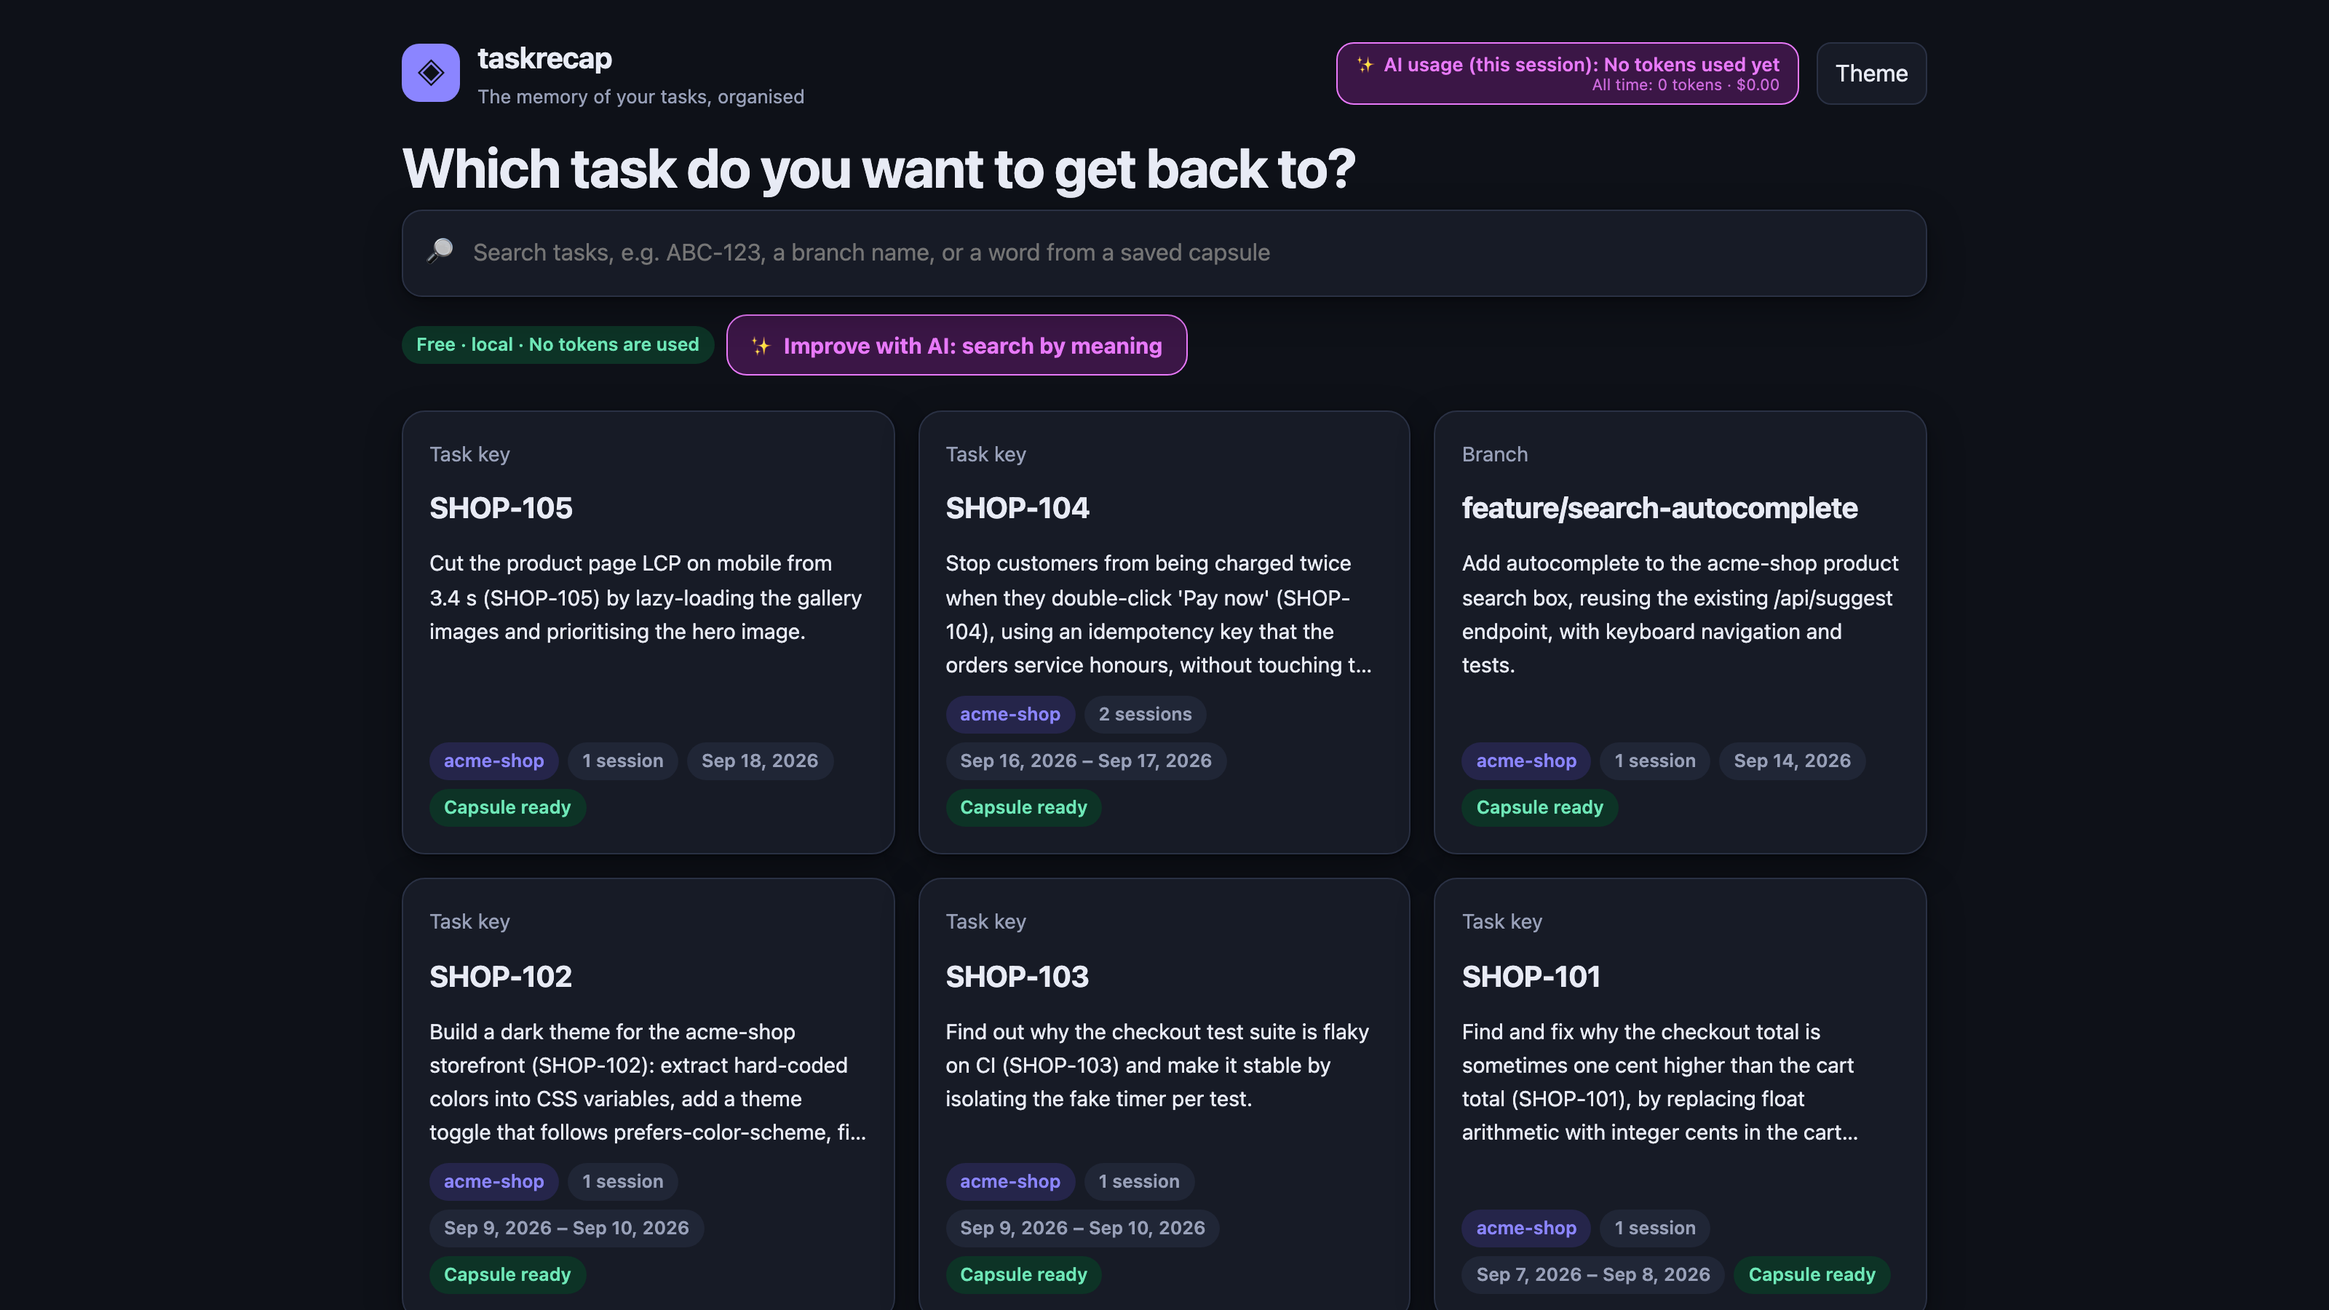
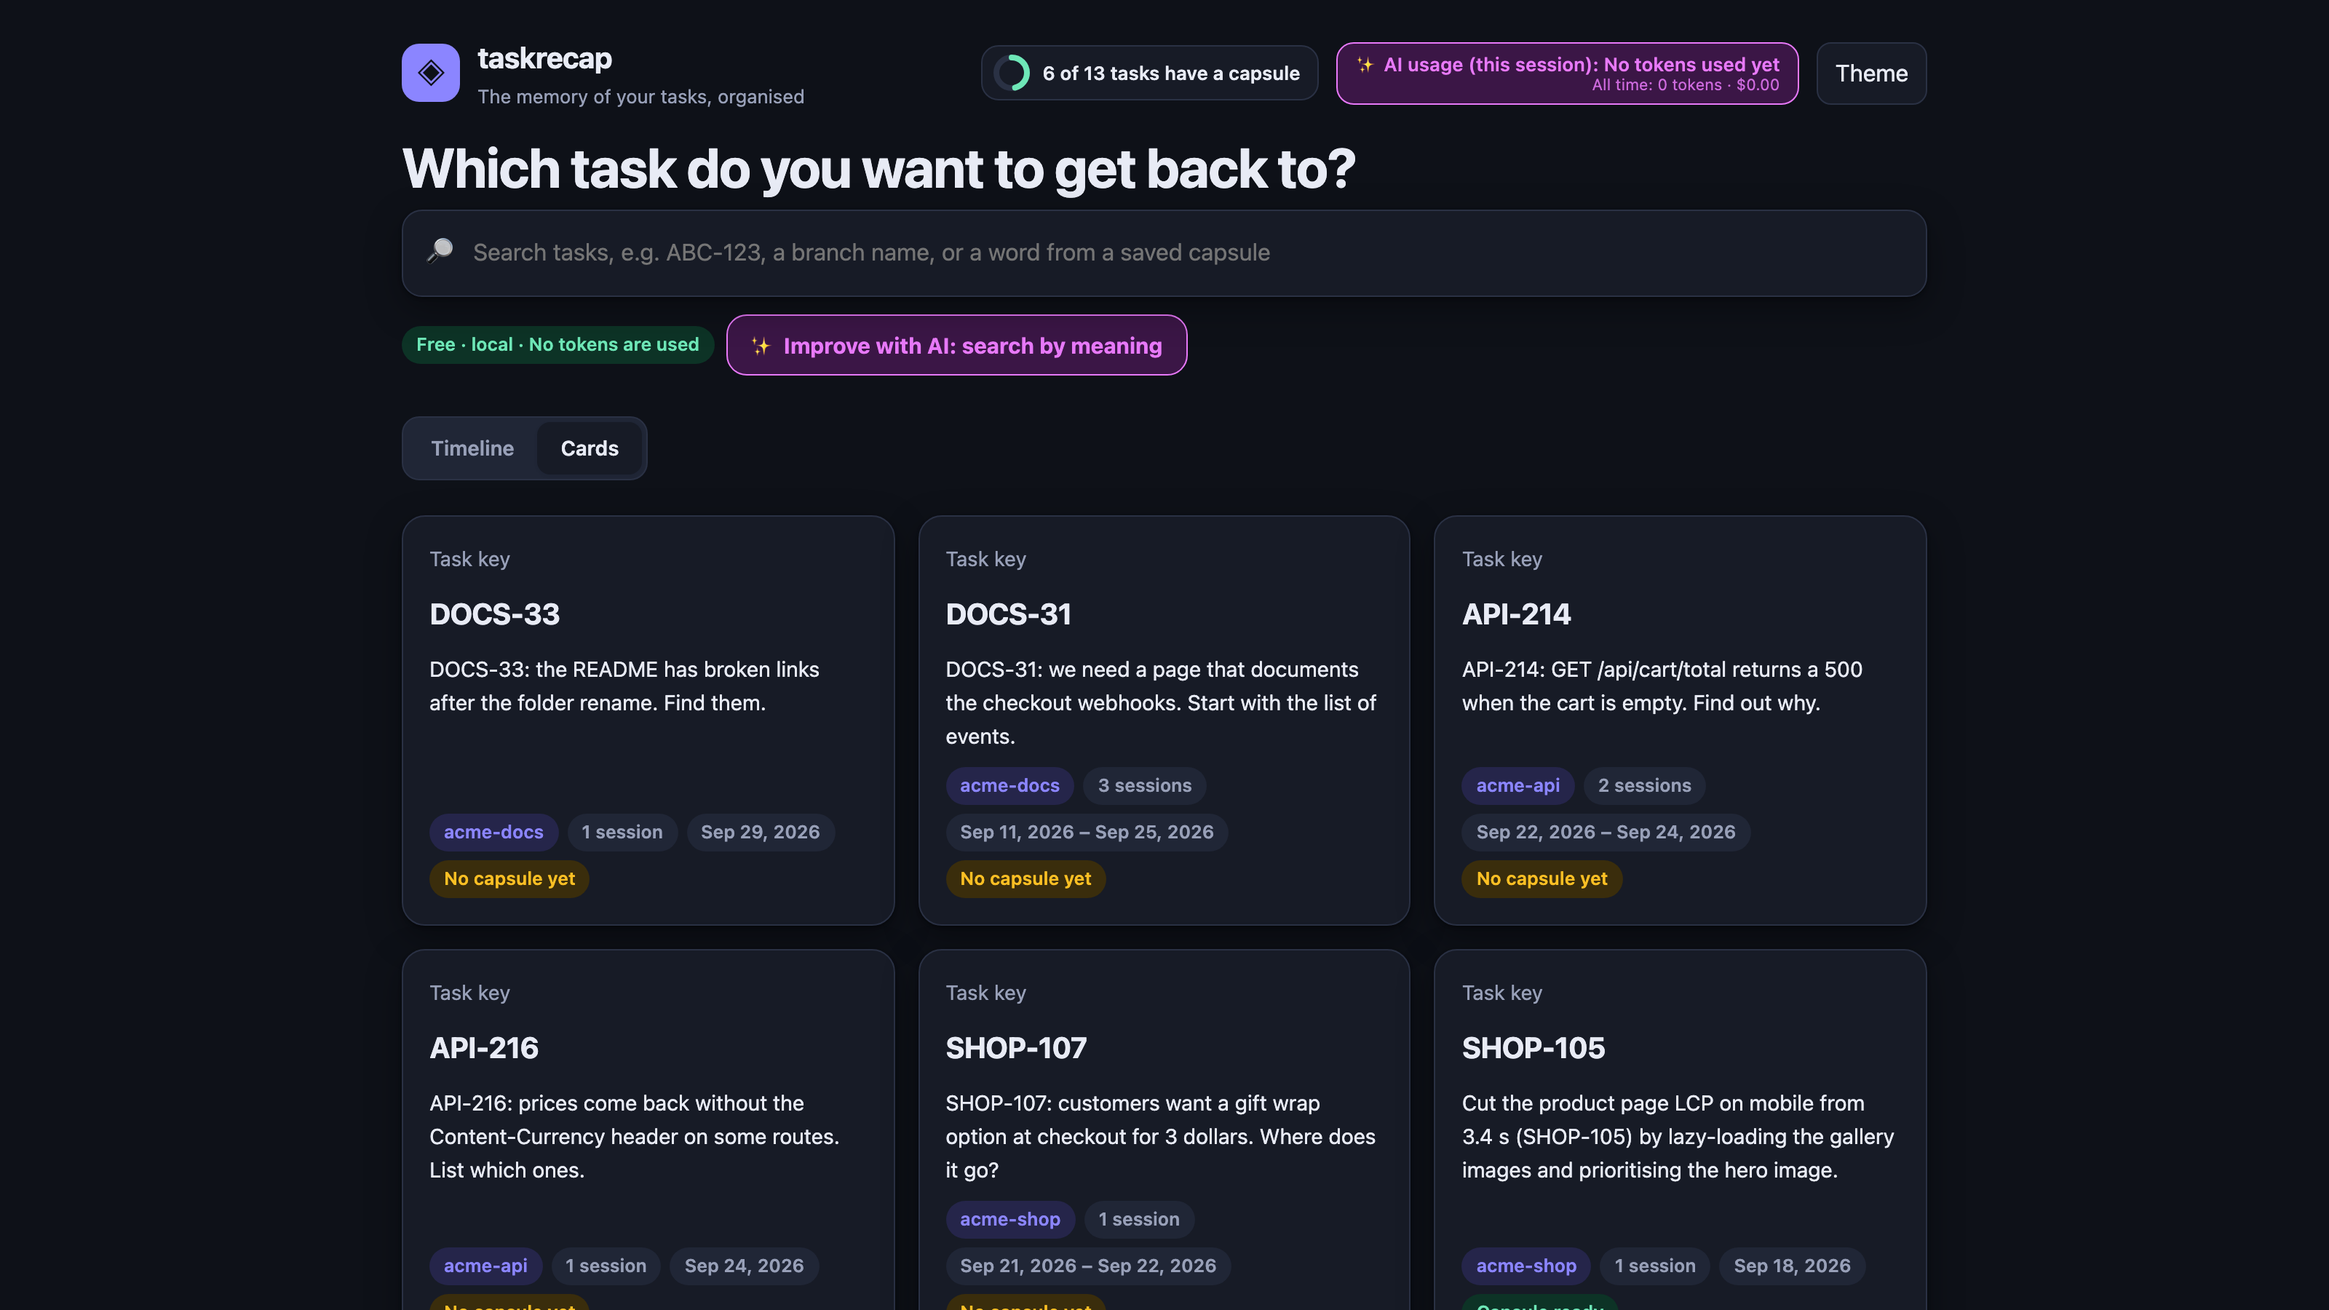
Update versioning and enhance timeline filters; add new tests and improve UI elements

diff --git a/web/index.html b/web/index.html
@@ -250,6 +250,14 @@ button.tasklink.inline { width: auto; padding: 2px 10px; border-radius: 999px; f
 .vzfilters { display: flex; flex-wrap: wrap; gap: 8px 12px; align-items: center; }
 .vzfilters label { display: inline-flex; align-items: center; gap: 6px; font-size: 13px; color: var(--muted); font-weight: 600; }
 .vzfilters select, .vzfilters input { font: inherit; font-size: 14px; color: var(--text); background: var(--surface); border: 1.5px solid var(--border); border-radius: 10px; padding: 6px 10px; max-width: 180px; }
+.vzcustom { display: inline-flex; flex-wrap: wrap; gap: 8px 12px; align-items: center; }
+.vzcustom[hidden] { display: none; }
+.vzmsg { font-size: 13px; color: var(--muted); }
+.vzmsg:empty { display: none; }
+.vzfilters input[type="date"] { color-scheme: light; }
+:root[data-theme="dark"] .vzfilters input[type="date"] { color-scheme: dark; }
+@media (prefers-color-scheme: dark) { :root:not([data-theme="light"]) .vzfilters input[type="date"] { color-scheme: dark; } }
+.vz-empty .cta { margin-left: 10px; }
 .vzfilters select:focus, .vzfilters input:focus { outline: none; border-color: var(--accent); box-shadow: 0 0 0 3px var(--accent-soft); }
 .capfilter { display: inline-flex; align-items: center; gap: 8px; font-size: 13px; font-weight: 600; background: var(--accent-soft); color: var(--accent); border-radius: 999px; padding: 4px 6px 4px 12px; }
 .capfilter button { border: none; background: var(--surface); color: var(--accent); border-radius: 999px; font-weight: 700; font-size: 12.5px; padding: 3px 10px; }
@@ -329,9 +337,13 @@ button.tasklink.inline { width: auto; padding: 2px 10px; border-radius: 999px; f
       </div>
       <div class="vzfilters" id="vzfilters">
         <label><span id="vz-repo-label"></span><select id="vz-repo"></select></label>
-        <label><span id="vz-from-label"></span><input type="date" id="vz-from"></label>
-        <label><span id="vz-to-label"></span><input type="date" id="vz-to"></label>
+        <label><span id="vz-period-label"></span><select id="vz-period"></select></label>
+        <span class="vzcustom" id="vz-custom" hidden>
+          <label><span id="vz-from-label"></span><input type="date" id="vz-from"></label>
+          <label><span id="vz-to-label"></span><input type="date" id="vz-to"></label>
+        </span>
         <button class="cta ghost sm" type="button" id="vz-reset"></button>
+        <span class="vzmsg" id="vz-msg" role="status"></span>
       </div>
       <span class="capfilter" id="capfilter" hidden><span id="capfilter-text"></span><button type="button" id="capfilter-clear"></button></span>
     </div>
@@ -396,6 +408,9 @@ function applyStatic() {
   $("view-timeline").textContent = S.view_timeline;
   $("view-cards").textContent = S.view_cards;
   $("vz-repo-label").textContent = S.tl_repo;
+  $("vz-period-label").textContent = S.tl_period;
+  $("vz-period").innerHTML = [["all", S.tl_period_all], ["7", S.tl_period_7], ["30", S.tl_period_30], ["90", S.tl_period_90], ["custom", S.tl_period_custom]]
+    .map(([v, l]) => `<option value="${v}">${esc(l)}</option>`).join("");
   $("vz-from-label").textContent = S.tl_from;
   $("vz-to-label").textContent = S.tl_to;
   $("vz-reset").textContent = S.tl_reset;
@@ -466,7 +481,7 @@ function bindCards(root) {
 // ---------- home: cards or timeline ----------
 let VIEW = "timeline"; // remembered between visits
 try { if (localStorage.getItem("tr-view") === "cards") VIEW = "cards"; } catch (e) { /* storage blocked: default view */ }
-const VZ = { repo: "", from: "", to: "", limit: 12, noCapsule: false }; // timeline filters; the capsule filter also narrows the cards
+const VZ = { repo: "", period: "all", from: "", to: "", limit: 12, noCapsule: false }; // timeline filters; the capsule filter also narrows the cards
 let TL = null;
 let tlSeq = 0;
 
@@ -504,17 +519,25 @@ function renderHome() {
   $("view-cards").setAttribute("aria-pressed", String(!timeline));
   $("vzfilters").hidden = !timeline;
   $("capfilter").hidden = !VZ.noCapsule;
-  $("timeline").hidden = !timeline;
+  $("timeline").hidden = !timeline || !!(HITS && !list.length);
   renderCoverage();
-  if (timeline) loadTimeline();
+  if (timeline && !(HITS && !list.length)) loadTimeline();
 }
 
 // ---------- timeline ----------
+const localDay = (offsetDays) => { const d = new Date(); d.setDate(d.getDate() - offsetDays); return d.getFullYear() + "-" + String(d.getMonth() + 1).padStart(2, "0") + "-" + String(d.getDate()).padStart(2, "0"); };
+/** The days the timeline is filtered to: a preset counts back from today, "custom" uses the two date boxes. */
+function vzRange() {
+  if (VZ.period === "custom") return { from: VZ.from, to: VZ.to };
+  const n = Number(VZ.period);
+  return n > 0 ? { from: localDay(n - 1), to: "" } : { from: "", to: "" };
+}
 function tlQuery() {
   const q = new URLSearchParams();
   if (VZ.repo) q.set("repo", VZ.repo);
-  if (VZ.from) q.set("from", VZ.from);
-  if (VZ.to) q.set("to", VZ.to);
+  const range = vzRange();
+  if (range.from) q.set("from", range.from);
+  if (range.to) q.set("to", range.to);
   if (VZ.noCapsule) q.set("capsule", "none");
   if (HITS) q.set("keys", [...HITS.keys()].join("\n")); else q.set("limit", String(VZ.limit));
   return q.toString();
@@ -560,7 +583,11 @@ function renderTimeline() {
     named.map((r) => `<li><span class="vz-sw s${r.slot}" aria-hidden="true"></span>${esc(r.name)}</li>`).join("") +
     (others.length ? `<li title="${esc(others.map((r) => r.name).join(", "))}"><span class="vz-sw" aria-hidden="true"></span>${esc(S.tl_legend_other)} (${others.length})</li>` : "") + "</ul>";
   const head = `<div class="vz-head"><h2 id="vz-title">${esc(S.tl_title)}</h2><p>${esc(S.tl_hint)}</p>${tl.repos.length ? legend : ""}</div>`;
-  if (!tl.lanes.length) { el.innerHTML = head + `<p class="vz-empty" role="status">${esc(S.tl_empty)}</p>`; return; }
+  if (!tl.lanes.length) {
+    const filtered = VZ.repo || VZ.period !== "all" || VZ.noCapsule;
+    el.innerHTML = head + `<p class="vz-empty" role="status">${esc(S.tl_empty)}${filtered ? ` <button type="button" class="cta ghost sm" id="vz-empty-reset">${esc(S.tl_empty_reset)}</button>` : ""}</p>`;
+    return;
+  }
   const grid = (ticks) => ticks.map((t) => `<i class="vz-gl" style="left:${t.x}%"></i>`).join("");
   const lane = (l) => {
     const marks = l.marks.map((m, i) => {
@@ -581,7 +608,7 @@ function renderTimeline() {
   const more = tl.hidden > 0 ? `<button type="button" class="cta ghost sm" id="vz-more">${esc(fmt(S.tl_more, { n: Math.min(12, tl.hidden) }))}</button>` : "";
   el.innerHTML = head + `<div class="vz-scroll"><div class="vz-chart">
     <div class="vz-row" aria-hidden="true"><span class="vz-axis-pad"></span><div class="vz-ticks">${ticks}</div></div>${tl.lanes.map(lane).join("")}</div></div>
-    <div class="vz-foot"><span>${esc(fmt(S.tl_showing, { shown: tl.shown, total: tl.total }))}</span>${more}</div>
+    <div class="vz-foot"><span>${esc(fmt(tl.unassigned_shown ? S.tl_showing_unassigned : S.tl_showing, { shown: tl.task_shown, total: tl.task_total }))}${tl.undated ? " · " + esc(fmt(S.tl_undated, { n: tl.undated })) : ""}</span>${more}</div>
     <p class="note" style="margin:10px 18px 0">${esc(S.tl_note)}</p>` + table;
 }
 
@@ -602,6 +629,7 @@ function bindTimeline() {
   const laneOf = (key) => (TL ? TL.lanes.find((l) => l.key === key) : null);
   el.addEventListener("click", (e) => {
     if (e.target.closest("#vz-more")) { VZ.limit += 12; loadTimeline(); return; }
+    if (e.target.closest("#vz-empty-reset")) { resetVz(); return; }
     const t = e.target.closest("[data-key]");
     if (t) { hideTip(); location.hash = "#/task/" + encodeURIComponent(t.dataset.key); }
   });
@@ -631,18 +659,37 @@ function bindTimeline() {
   document.addEventListener("keydown", (e) => { if (e.key === "Escape") hideTip(); });
 }
 
+function resetVz() {
+  Object.assign(VZ, { repo: "", period: "all", from: "", to: "", limit: 12 });
+  $("vz-period").value = "all"; $("vz-custom").hidden = true;
+  $("vz-from").value = ""; $("vz-to").value = ""; $("vz-msg").textContent = "";
+  loadTimeline();
+}
+
 function bindViewControls() {
   $("view-timeline").addEventListener("click", () => setView("timeline"));
   $("view-cards").addEventListener("click", () => setView("cards"));
   const refilter = () => { VZ.limit = 12; loadTimeline(); };
   $("vz-repo").addEventListener("change", () => { VZ.repo = $("vz-repo").value; refilter(); });
-  $("vz-from").addEventListener("change", () => { VZ.from = $("vz-from").value; refilter(); });
-  $("vz-to").addEventListener("change", () => { VZ.to = $("vz-to").value; refilter(); });
-  $("vz-reset").addEventListener("click", () => {
-    Object.assign(VZ, { repo: "", from: "", to: "", limit: 12 });
-    $("vz-from").value = ""; $("vz-to").value = "";
-    loadTimeline();
+  $("vz-period").addEventListener("change", () => {
+    VZ.period = $("vz-period").value;
+    $("vz-custom").hidden = VZ.period !== "custom";
+    $("vz-msg").textContent = "";
+    refilter();
   });
+  const onDates = () => {
+    VZ.from = $("vz-from").value; VZ.to = $("vz-to").value;
+    $("vz-msg").textContent = "";
+    if (VZ.from && VZ.to && VZ.from > VZ.to) { // reversed: swap the boxes so what you see is what is filtered
+      [VZ.from, VZ.to] = [VZ.to, VZ.from];
+      $("vz-from").value = VZ.from; $("vz-to").value = VZ.to;
+      $("vz-msg").textContent = S.tl_range_swapped;
+    }
+    refilter();
+  };
+  $("vz-from").addEventListener("change", onDates);
+  $("vz-to").addEventListener("change", onDates);
+  $("vz-reset").addEventListener("click", resetVz);
   const toggleCapsule = (on) => { VZ.noCapsule = on; renderHome(); };
   $("coverage").addEventListener("click", () => toggleCapsule(!VZ.noCapsule));
   $("capfilter-clear").addEventListener("click", () => toggleCapsule(false));

diff --git a/test/timeline.test.js b/test/timeline.test.js
@@ -244,3 +244,37 @@ test('GET /api/timeline serves the layout; /api/tasks stays light (no activity)'
     srv.server.close();
   }
 });
+
+test('"tasks" counts match the coverage ring: sessions without a task key are reported apart', () => {
+  const tasks = [
+    task('A-1', [cell(9, 1, 1)], { has_capsule: true }),
+    task('A-2', [cell(9, 2, 1)]),
+    task('unassigned', [cell(9, 3, 1)], { kind: 'unassigned', generatable: false }),
+  ];
+  const tl = buildTimeline(tasks);
+  assert.deepEqual(tl.coverage, { ready: 1, total: 2 });
+  assert.deepEqual([tl.task_shown, tl.task_total], [2, tl.coverage.total]); // the footer and the ring talk about the same tasks
+  assert.deepEqual([tl.unassigned_shown, tl.unassigned_total], [1, 1]);
+  assert.deepEqual([tl.shown, tl.total], [3, 3]); // lanes drawn (what "show more" counts) still include the unassigned one
+  const noUnassigned = buildTimeline(tasks.slice(0, 2));
+  assert.deepEqual([noUnassigned.unassigned_shown, noUnassigned.unassigned_total], [0, 0]);
+  const limited = buildTimeline(tasks, { limit: 1 });
+  assert.deepEqual([limited.task_shown, limited.task_total, limited.unassigned_total], [1, 2, 1]);
+});
+
+test('a reversed date range selects the same days as the ordered one and reports the range it applied', () => {
+  const tasks = [task('A-1', [cell(9, 1, 1), cell(9, 20, 1)]), task('A-2', [cell(9, 5, 1)])];
+  const ordered = buildTimeline(tasks, { from: d(9, 3), to: d(9, 10) });
+  const reversed = buildTimeline(tasks, { from: d(9, 10), to: d(9, 3) });
+  assert.deepEqual(reversed.lanes, ordered.lanes);
+  assert.deepEqual(reversed.range, ordered.range);
+  assert.deepEqual(reversed.applied, { from: d(9, 3), to: d(9, 10) });
+  assert.deepEqual(buildTimeline(tasks).applied, { from: null, to: null });
+});
+
+test('tasks without dated activity are counted, not drawn, and never break the totals', () => {
+  const tl = buildTimeline([task('A-1', [cell(9, 1, 1)]), task('A-2', []), task('A-3', undefined)]);
+  assert.equal(tl.undated, 2);
+  assert.deepEqual([tl.shown, tl.total, tl.task_shown, tl.task_total], [1, 1, 1, 1]);
+  assert.equal(tl.coverage.total, 3); // the ring still counts every task that can have a capsule
+});

diff --git a/src/timeline.js b/src/timeline.js
@@ -66,8 +66,9 @@ export function buildTimeline(tasks, opts = {}) {
   const slots = repoSlots(tasks.flatMap((t) => (t.activity || []).map((c) => c.project)));
   const generatable = tasks.filter((t) => t.generatable);
   const coverage = { ready: generatable.filter((t) => t.has_capsule).length, total: generatable.length };
-  const from = isDay(opts.from) ? opts.from : null;
-  const to = isDay(opts.to) ? opts.to : null;
+  let from = isDay(opts.from) ? opts.from : null;
+  let to = isDay(opts.to) ? opts.to : null;
+  if (from && to && from > to) [from, to] = [to, from]; // a reversed range means the same days: never an empty chart for it
   const wanted = Array.isArray(opts.keys) ? new Set(opts.keys) : null;
 
   const matching = [];
@@ -114,5 +115,11 @@ export function buildTimeline(tasks, opts = {}) {
     repos: present.map((name) => ({ name, slot: slots.has(name) ? slots.get(name) : -1 })),
     all_repos: [...slots.keys()],
     lanes, total: matching.length, shown: lanes.length, hidden: matching.length - lanes.length, undated, coverage,
+    // "tasks" are the ones that can have a capsule (what the coverage ring counts); sessions without a task key are a separate group
+    task_total: matching.filter((m) => m.task.generatable !== false).length,
+    task_shown: lanes.filter((l) => l.generatable).length,
+    unassigned_total: matching.filter((m) => m.task.generatable === false).length,
+    unassigned_shown: lanes.filter((l) => !l.generatable).length,
+    applied: { from, to },
   };
 }

diff --git a/test/cli.test.js b/test/cli.test.js
@@ -1,5 +1,6 @@
 import assert from 'node:assert/strict';
 import { spawn, spawnSync } from 'node:child_process';
+import fs from 'node:fs';
 import path from 'node:path';
 import { fileURLToPath } from 'node:url';
 import { test } from 'node:test';
@@ -25,7 +26,8 @@ test('parseCli: no arguments means the dashboard; flags are validated', () => {
 test('the CLI prints help, version and the demo task list', () => {
   const run = (args) => spawnSync(process.execPath, [BIN, ...args], { env: env(), encoding: 'utf8' });
   assert.match(run(['--help']).stdout, /Usage:/);
-  assert.match(run(['--version']).stdout, /taskrecap 0\.1\.0/);
+  const { version } = JSON.parse(fs.readFileSync(new URL('../package.json', import.meta.url), 'utf8'));
+  assert.equal(run(['--version']).stdout.trim(), `taskrecap ${version}`); // the number users see is the one that was published
   const list = run(['list', '--demo']);
   assert.equal(list.status, 0);
   assert.match(list.stdout, /SHOP-101/);

diff --git a/test/config.test.js b/test/config.test.js
@@ -29,3 +29,9 @@ test('migrateLegacyHome does nothing when the new folder exists or there is no o
   assert.deepEqual(fs.readdirSync(existing), []);
   assert.equal(migrateLegacyHome(path.join(tmpDir(), 'new'), path.join(tmpDir(), 'missing')), false);
 });
+
+test('the reported version is the one in package.json, so a release can never print a stale number', async () => {
+  const { VERSION } = await import('../src/config.js');
+  const pkg = JSON.parse((await import('node:fs')).readFileSync(new URL('../package.json', import.meta.url), 'utf8'));
+  assert.equal(VERSION, pkg.version);
+});

diff --git a/src/config.js b/src/config.js
@@ -6,7 +6,7 @@ import { expandUser } from './util.js';
 
 export const APP_NAME = 'taskrecap'; // the product name lives here and in package.json only
 export const APP_TITLE = 'taskrecap';
-export const VERSION = '0.1.0';
+export const VERSION = JSON.parse(fs.readFileSync(new URL('../package.json', import.meta.url), 'utf8')).version; // one source of truth: it was hard-coded and went stale at 0.1.1
 
 export const DEFAULT_KEY_REGEX = String.raw`\b[A-Z][A-Z0-9]{1,9}-\d{1,6}\b`; // Jira-style by default; any regex works
 
